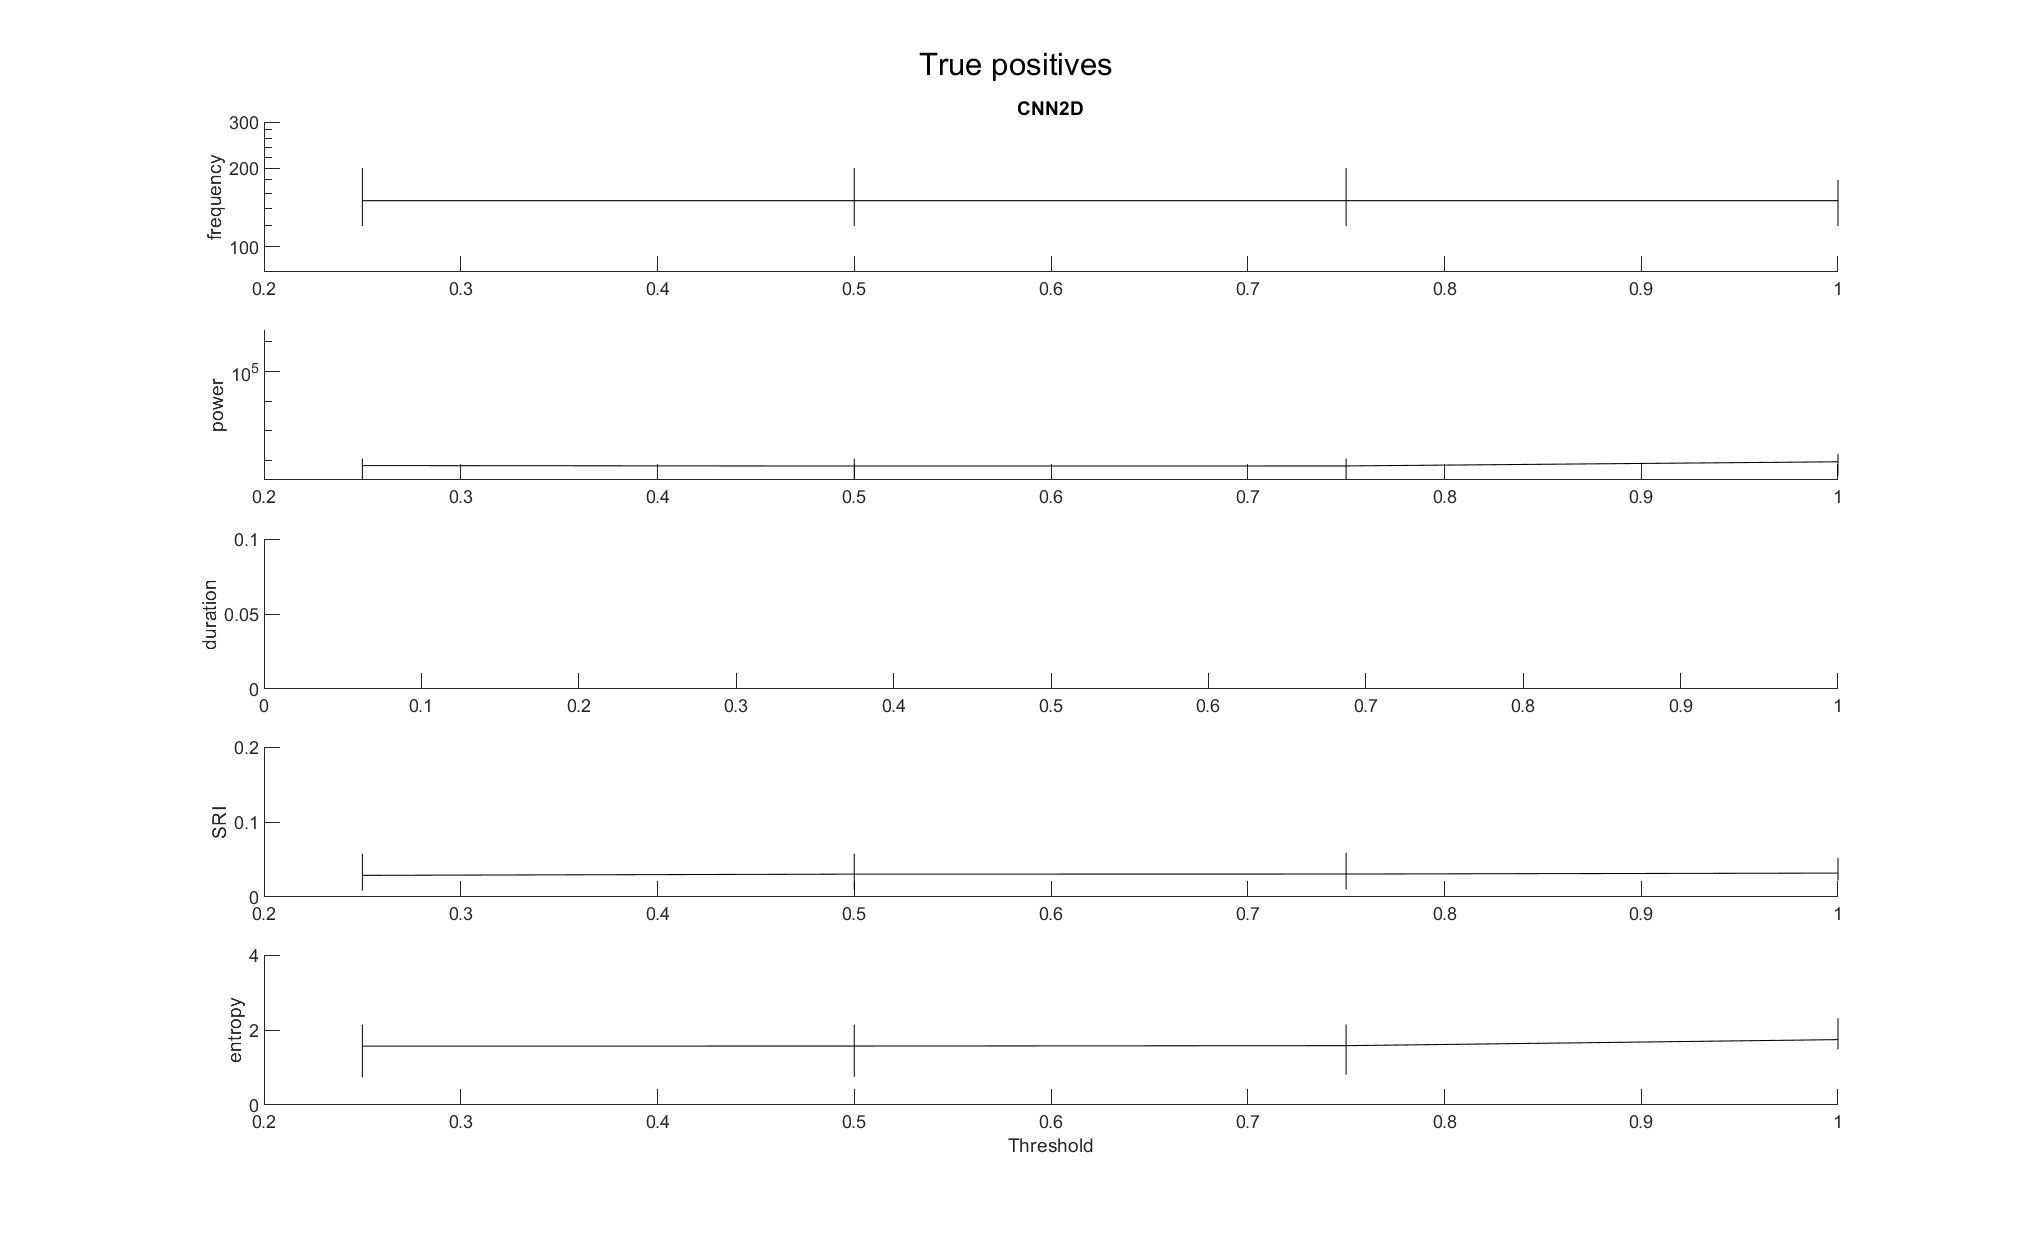
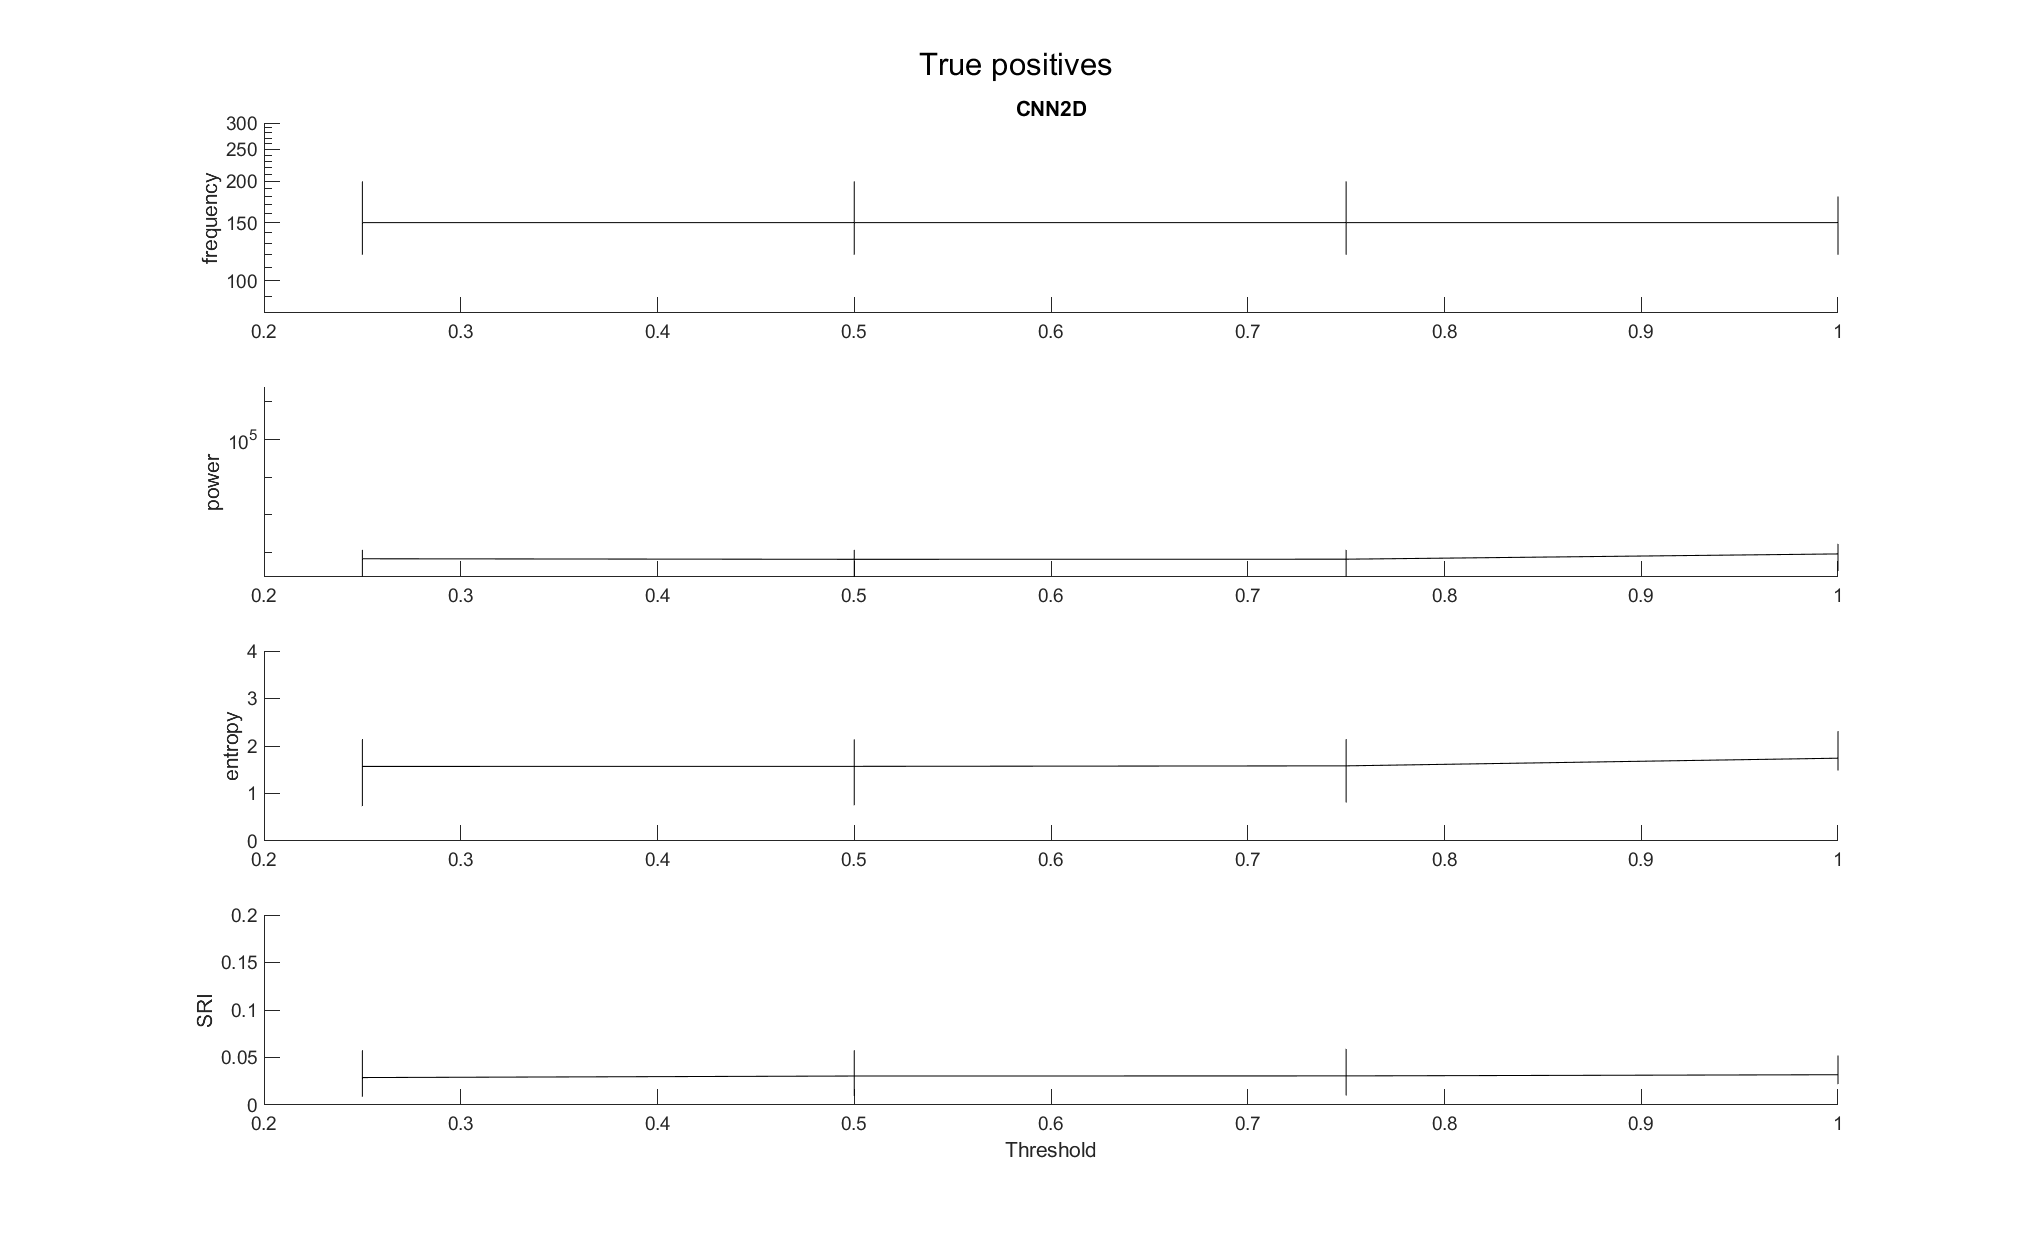
Changed scripts to generate the figure
the Figure 5 of the paper

diff --git a/collect_properties.m b/collect_properties.m
@@ -38,13 +38,13 @@ dirSessions = {'Kilosort/Dlx1/2021-02-12_12-46-54', ...
 % Filters to test
 %detectors = {'butter', 'besselfir', 'cnn32'};
 %Where to save the generated files inside Ripple-Properties
-SavePath='2022-10-14';
+SavePath='Paper';
 %Detectors will contain the different models validated inside
 %session\events\[Model]
-detectors = {'CNN2D','CNN1D','XGBOOST','SVM'};
+detectors = {'XGBOOST','SVM','LSTM','CNN2D','CNN1D'};
 %thresholds = {2:8, 2:8, 0.1:0.1:0.9};
 % This section extracts the length of the threshold array
-dirData = fullfile(dirAndrea, dirSessions{1});
+dirData = fullfile(dirAndrea, dirSessions{1},'events','Best');
 
 % Properties of all ripples 
 pred_prop = {};
@@ -52,41 +52,43 @@ true_prop = {};
 % This for loop extracts the arrays used in the test of the different
 % arquitectures, which dont have to be the same across models
  thresholds={} ;  % Working with cells
+ 
 for idet = 1:length(detectors) 
     th_arr=[];
-    dirTest=fullfile(dirData,'events',detectors{idet});
-    filePattern = fullfile(dirTest, '*.txt')
+    % dirTest=fullfile(dirData,'events',detectors{idet});
+    filePattern = fullfile(strcat(dirData,'\',detectors{idet},'*','.txt'))
     Results = dir(filePattern);
     for i=1:length(Results)
         %Extracts the threshold and appends it to an array 
-        thStr=extractBetween(Results(i).name,'th','.txt');
+        thStr=extractBetween(Results(i).name,'th_','.txt');
         th_arr(end+1)=str2double(thStr{1,1});
     end
     thresholds(end+1)={th_arr};
 end
+% {'XGBOOST','SVM','LSTM','CNN2D','CNN1D'}
+thresholds={linspace(0,0.9,10),linspace(0,0.95,20),linspace(0,0.85,17),linspace(0,0.95,20),linspace(0,0.95,20)}
 % Cell inicialzation
 for idet = 1:length(detectors)
     pred_prop.(detectors{idet}) = cell(1,length(thresholds{idet}));
     true_prop.(detectors{idet}) = cell(1,length(thresholds{idet}));
 end
 %% for loop iterating over the sessions
-for isess = 1:1%length(dirSessions)
+for isess = 1:length(dirSessions)
     dirSession = dirSessions{isess};
     
-    fprintf('\n\n  > DATA: %s\n',dirSession);
+    fprintf('\n\n  >Session number %d DATA: %s\n',isess-1,dirSession);
     % for loop iterating over the arquitectures
     for idet = 1:length(detectors)        
         detector = detectors{idet};
         disp(detector);
-        dirData = fullfile(dirAndrea, dirSession,'events','Best');
-      
-        filePattern = fullfile(dirTest, '*.txt'); 
+        filePattern = fullfile(strcat(dirData,'\',detectors{idet},'*','.mat'))
         Results = dir(filePattern);              %Results contains a structure with the names of the folder      
         
-        for ithr = 1:length(thresholds{idet})
+        for ithr = 1:length(Results)
+            
             thr = thresholds{idet}(ithr);
-            disp(fullfile(dirData, strcat(Results(ithr).name(1:end-4),'_metrics_win.mat')))
-            load(fullfile(dirData, strcat(Results(ithr).name(1:end-4),'_metrics_win.mat')), 'properties') 
+            disp(fullfile(dirData, Results(ithr).name))
+            load(fullfile(dirData, Results(ithr).name), 'properties') 
             % PRED: append to properties structure
             append_table = properties.detection(:,[1:6 8]);
             append_table = [append_table table(isess*ones(height(properties.detection),1), 'VariableNames', {'session'})];
@@ -137,6 +139,10 @@ for iTPFN = 1:length(TPFN_names)
                 otherwise
                     tbl = pred_prop.(detector){ithr};
             end
+            if isempty(tbl)
+                continue
+            end
+            
             prop_names = fieldnames(tbl);
             prop_sess.(TPFN).mean.(detector){ithr} = {};
             prop_sess.(TPFN).median.(detector){ithr} = {};

diff --git a/detections_metrics_different_arquitectures.m b/detections_metrics_different_arquitectures.m
@@ -37,9 +37,10 @@ dirSessions = {
     'Kilosort/Thy10/2021-06-15_15-28-56', ...    % 20
 };
 % Which model made de predictions
-ModelTypes={'CNN1D','SVM','CNN2D','XGBOOST'};
+ModelTypes={'LSTM','XGBOOST','SVM','CNN2D','CNN1D'};
 %% 
-for isess = 1:1%length(dirSessions)
+for isess = 1:length(dirSessions)
+    fprintf('Computing properties of session %d',isess)
     dirSession = dirSessions{isess};
     fprintf('\n\n  > DATA: %s\n',dirSession);
     dirData = fullfile(dirAndrea, dirSession)
@@ -67,13 +68,11 @@ for isess = 1:1%length(dirSessions)
 %    % An array with the th used in the test is created 
     
     dirTest=fullfile(dirData,'events','Best');
-%%
         for iModeltype=1:length(ModelTypes)
             thArray=[];
             
             ModelType=ModelTypes{iModeltype};
-            disp(ModelType)
-            filePattern = fullfile(dirTest, strcat(ModelType,'*.txt') ); 
+            filePattern = fullfile(dirTest, strcat(ModelType,'_','*.txt') ); 
             Results = dir(filePattern);
             for i=1:length(Results)
                 %Extracts the threshold and appends it to an array 
@@ -88,6 +87,7 @@ for isess = 1:1%length(dirSessions)
 
             for i_th =1:length(thArray)  %thArray extracted from files results
                 thr=thArray(i_th);
+                disp(ModelType);
                 fprintf('Threshold %.2f...', thr);
                 % File name. Results contains the information of the file, not the
                 % file itself
